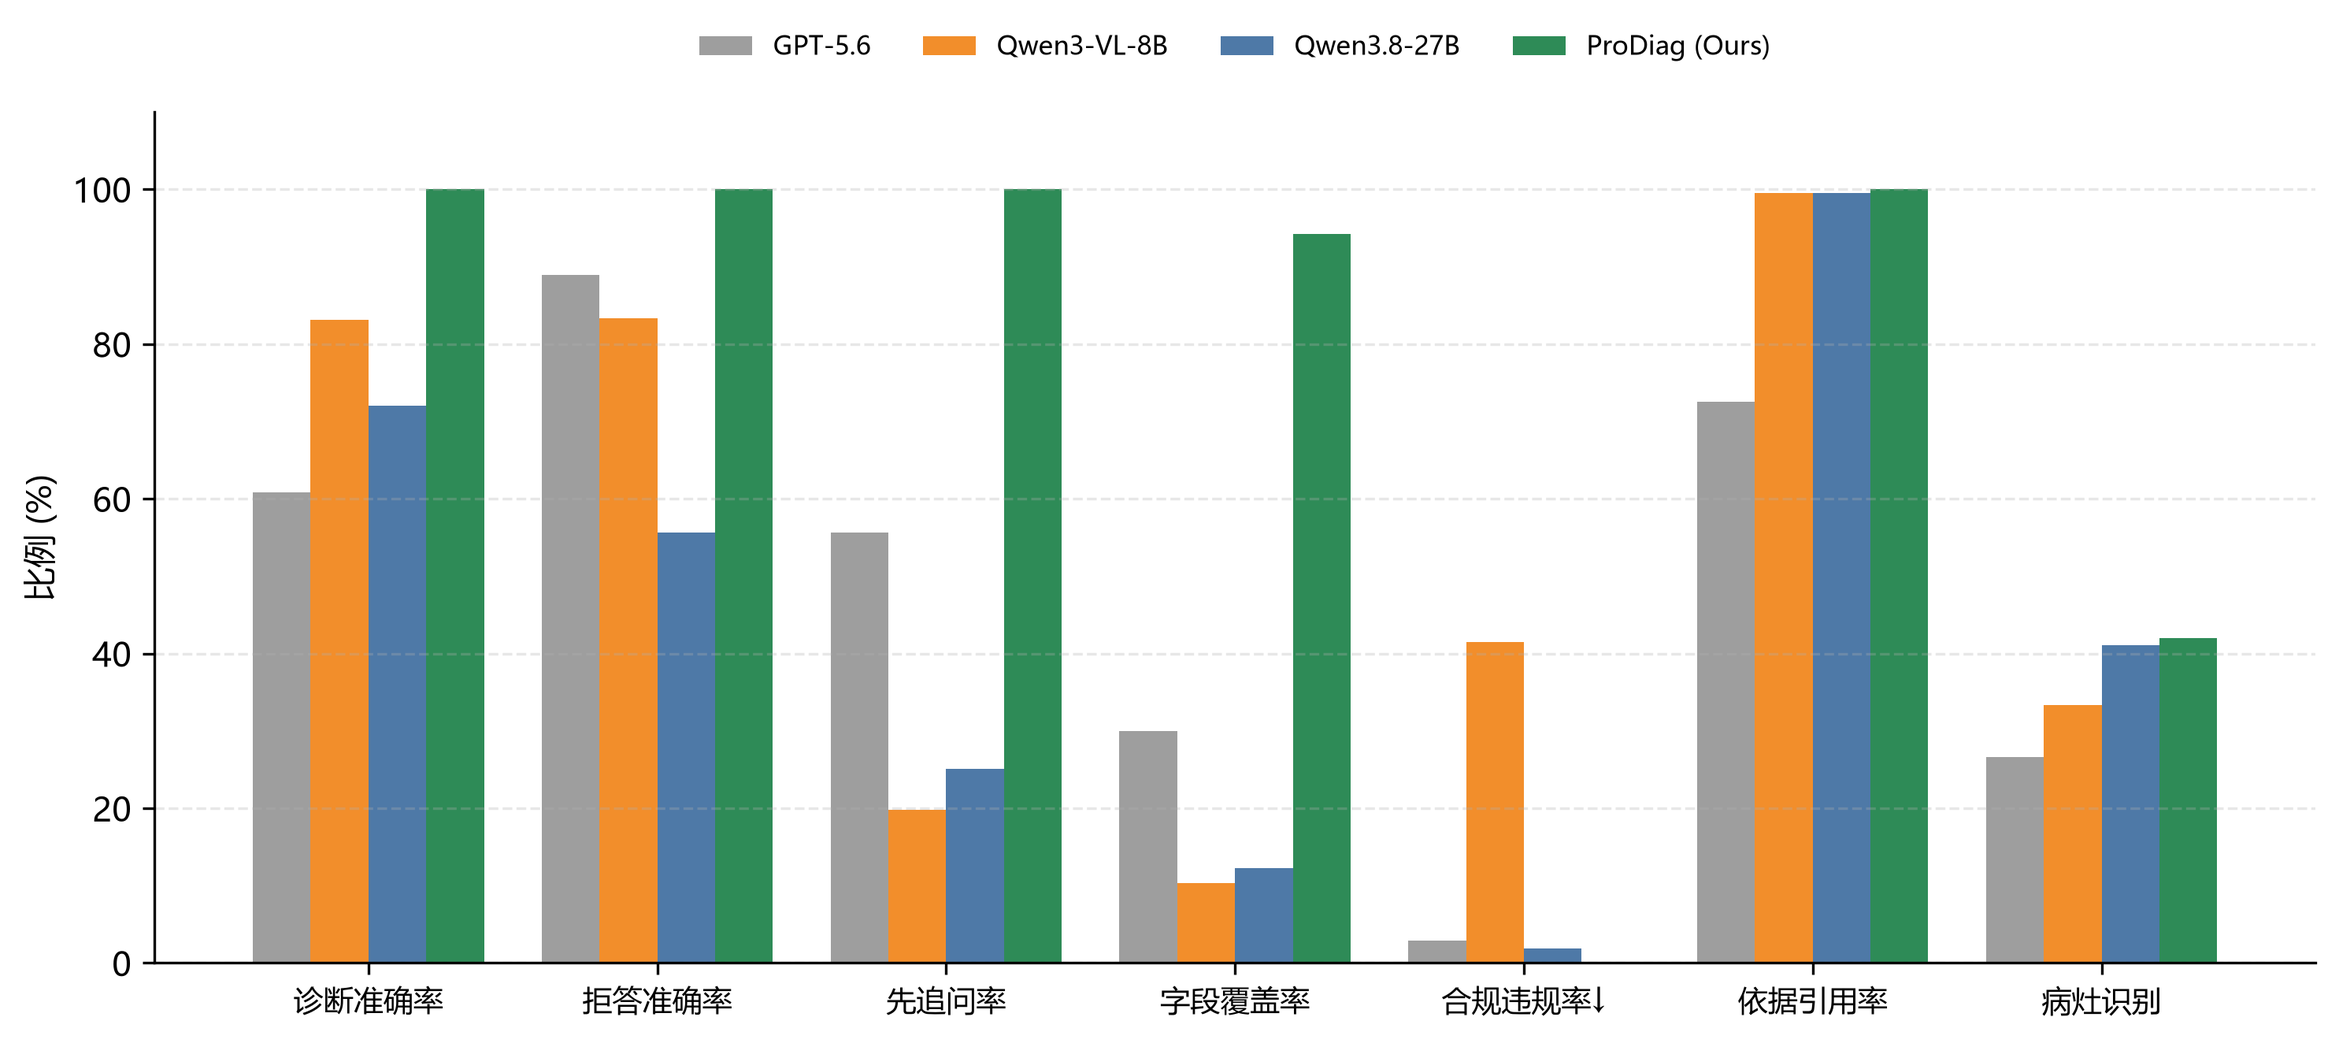
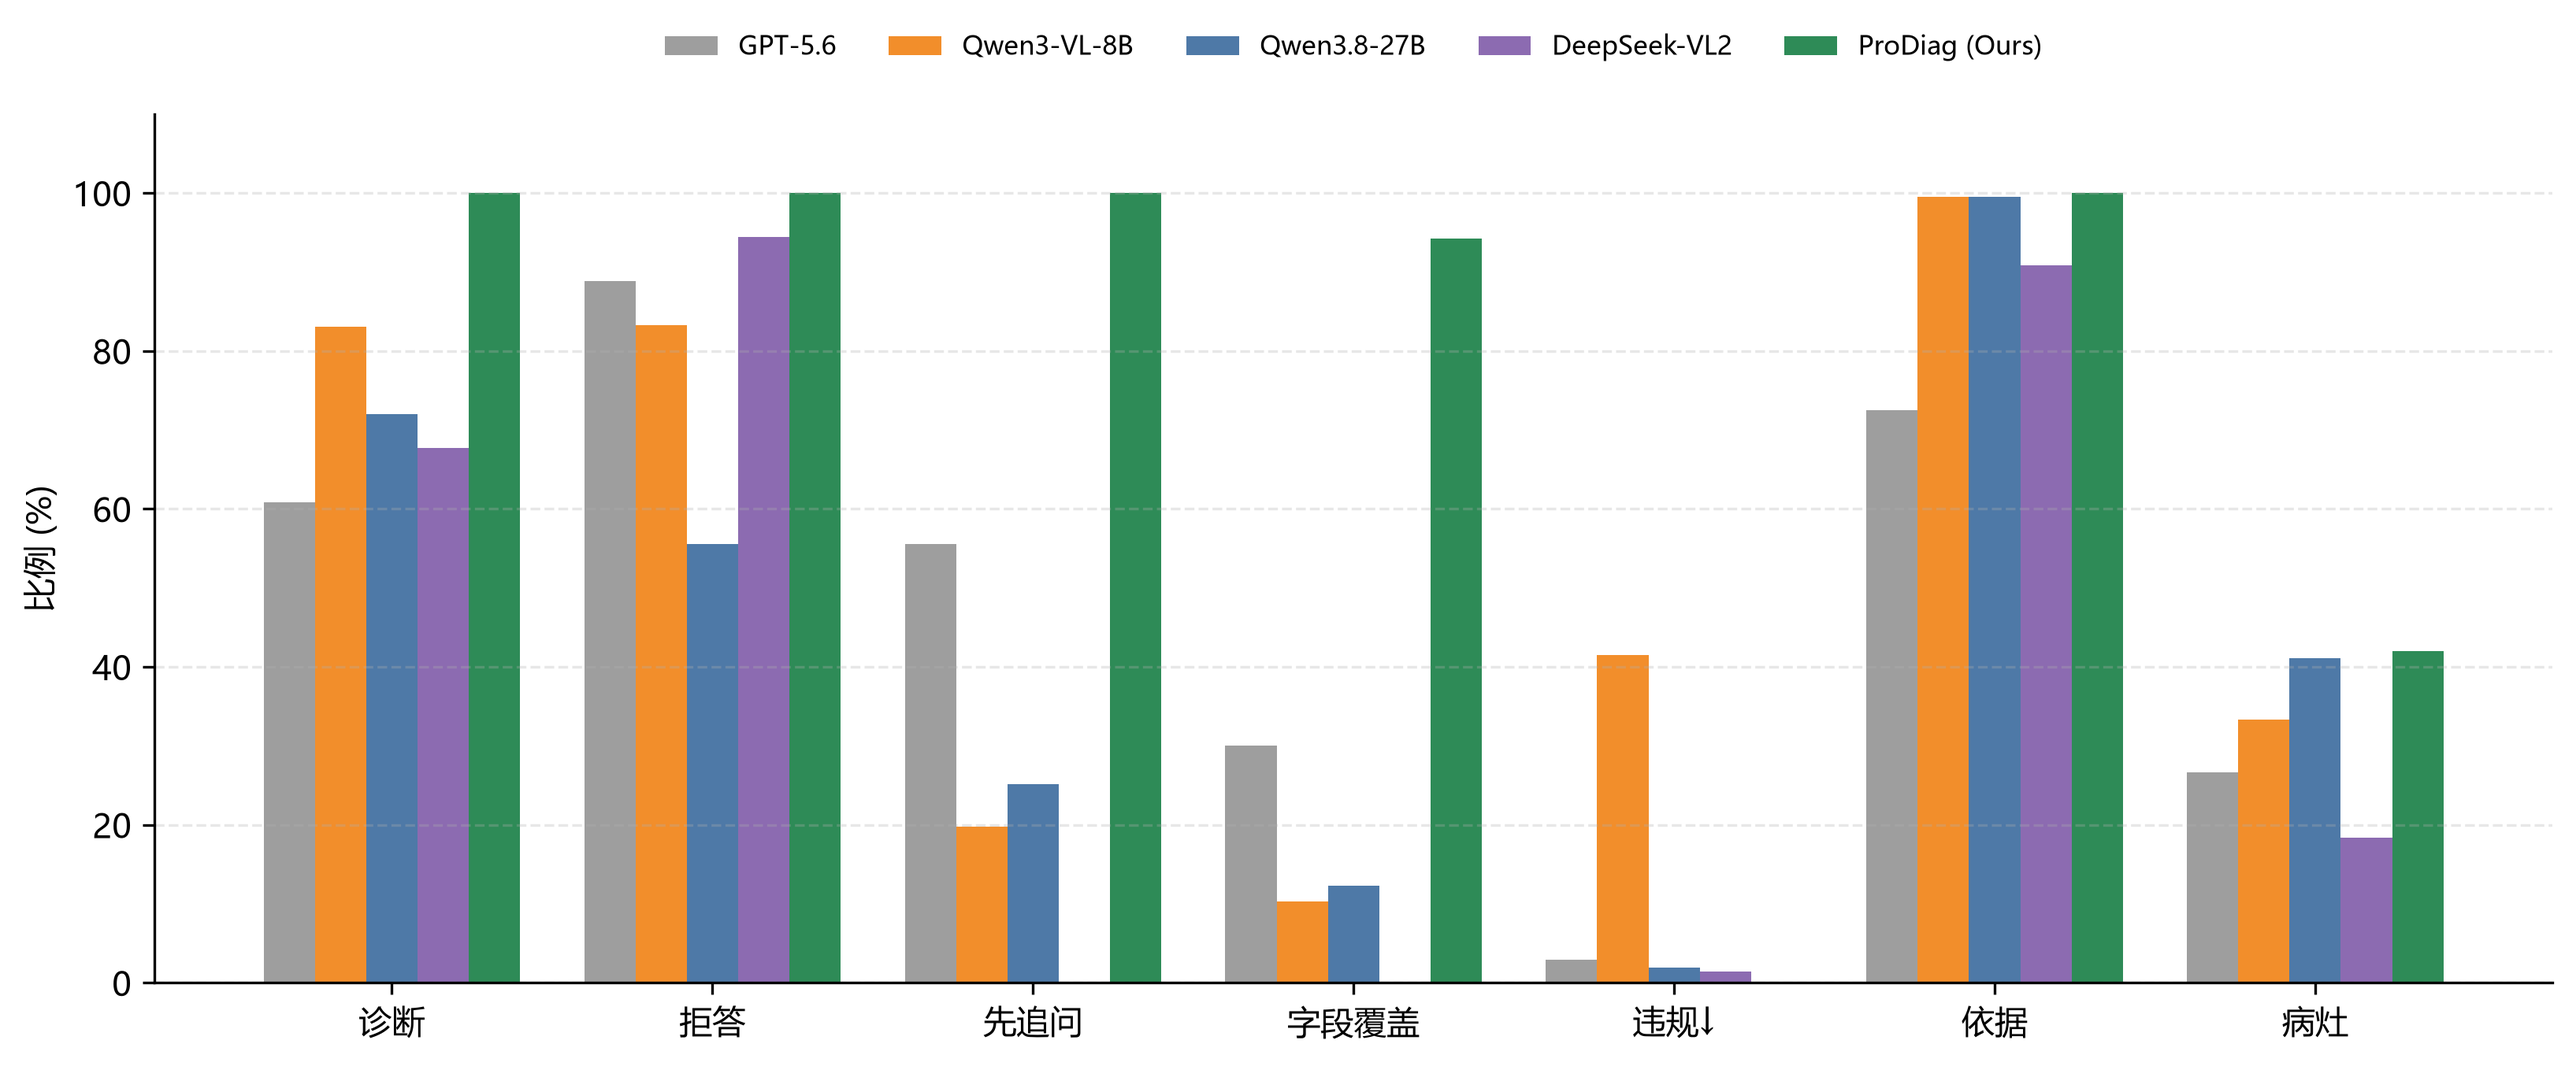
Add DeepSeek-VL2 baseline (5-model comparison) + update 5-model bar chart

diff --git a/sec/4_experiments.tex b/sec/4_experiments.tex
@@ -20,17 +20,17 @@
 \caption{207 病例上的 7 项指标对比（\%）。①诊断（189 可诊断）、②拒答（18 必须送检）、③先追问率、④缺失字段覆盖率、⑤合规违规率（越低越好）、⑥依据引用率、⑦病灶识别命中率。}
 \label{tab:main}
 \small
-\begin{tabular}{lcccc}
+\begin{tabular}{lccccc}
 \toprule
-指标 & GPT & 8B & 27B & ProDiag \\
+指标 & GPT & 8B & 27B & DeepSeek & ProDiag \\
 \midrule
-① 诊断准确率 & 60.8 & 83.1 & 72.0 & \textbf{100} \\
-② 拒答准确率 & 88.9 & 83.3 & 55.6 & \textbf{100} \\
-③ 先追问率 & 55.6 & 19.8 & 25.1 & \textbf{100} \\
-④ 字段覆盖率 & 30.0 & 10.3 & 12.3 & \textbf{94.2} \\
-⑤ 合规违规率 & 2.9 & 41.5 & 1.9 & \textbf{0} \\
-⑥ 依据引用率 & 72.5 & 99.5 & 99.5 & \textbf{100} \\
-⑦ 病灶识别命中率 & 26.6 & 33.3 & 41.1 & \textbf{42.0} \\
+① 诊断准确率 & 60.8 & 83.1 & 72.0 & 67.7 & \textbf{100} \\
+② 拒答准确率 & 88.9 & 83.3 & 55.6 & 94.4 & \textbf{100} \\
+③ 先追问率 & 55.6 & 19.8 & 25.1 & 0.0 & \textbf{100} \\
+④ 字段覆盖率 & 30.0 & 10.3 & 12.3 & 0.0 & \textbf{94.2} \\
+⑤ 合规违规率 & 2.9 & 41.5 & 1.9 & 1.4 & \textbf{0} \\
+⑥ 依据引用率 & 72.5 & 99.5 & 99.5 & 90.8 & \textbf{100} \\
+⑦ 病灶识别命中率 & 26.6 & 33.3 & 41.1 & 18.4 & \textbf{42.0} \\
 \bottomrule
 \end{tabular}
 \end{table}
@@ -42,11 +42,11 @@
     \label{fig:results}
 \end{figure}
 
-\textbf{结论}：三个裸模型"错得各不相同"——8B 靠视觉诊断高（83.1\%）却违规 41.5\% 且几乎不追问（19.8\%）；27B 最安全（1.9\%）却拒答差（55.6\%）且诊断低（72.0\%）；GPT 会拒答（88.9\%）却诊断低（60.8\%）。\textbf{ProDiag 以"视觉显式化 + 规则表 + 红线"同时修复追问、合规、拒答三类行为，且 7 项指标全部第一。}
+\textbf{结论}：四个基线模型"错得各不相同"——8B 靠视觉诊断高（83.1\%）却违规 41.5\% 且几乎不追问（19.8\%）；27B 最安全（1.9\%）却拒答差（55.6\%）且诊断低（72.0\%）；GPT 会拒答（88.9\%）却诊断低（60.8\%）；DeepSeek \textbf{一次都没追问}（0\%），靠看图猜病（67.7\%）。\textbf{四个基线的先追问率仅 0\%--55.6\%，没有一个会好好问诊；只有 ProDiag 的"视觉显式化 + 规则表 + 红线"同时修复追问、合规、拒答，且 7 项指标全部第一。}
 
 \subsection{病灶识别与"病灶 $\neq$ 病种"}
 
-图~\ref{fig:lesion} 给出 124 张病灶图的结构化病灶分布。所有模型病灶识别命中率仅 26.6\%--42.0\%，说明现有 VLM \textbf{直接给病名、不描述病灶}。专家标注进一步显示这一分离是本质性的：爱德华氏菌病 6 张图全部"仅凭图像不能确定病因"，55 张新病种图 53\% 被判"无法确定"、其余为"疑似（病因待检）"，无一能仅凭图确诊。\textbf{肉眼能认病灶，认不了病原——病种诊断几乎都需实验室}，这正是引入"拒答"维度的动机。
+图~\ref{fig:lesion} 给出 124 张病灶图的结构化病灶分布。所有模型病灶识别命中率仅 18.4\%--42.0\%，说明现有 VLM \textbf{直接给病名、不描述病灶}。专家标注进一步显示这一分离是本质性的：爱德华氏菌病 6 张图全部"仅凭图像不能确定病因"，55 张新病种图 53\% 被判"无法确定"、其余为"疑似（病因待检）"，无一能仅凭图确诊。\textbf{肉眼能认病灶，认不了病原——病种诊断几乎都需实验室}，这正是引入"拒答"维度的动机。
 
 \begin{figure}[t]
     \centering

diff --git a/sec/0_abstract.tex b/sec/0_abstract.tex
@@ -1,3 +1,3 @@
 \begin{abstract}
-水产疾病诊断是一个高风险、强合规、低资源的多模态任务：养殖户通常只提供一张现场照片和一句口头主诉，而合格的诊断需要先追问关键临床字段、信息足够才下结论、无法确诊时明确拒答并建议送检，且全程不得给出具体用药剂量。本文构建 \textbf{AquaDiag}，首个面向低资源水产的多模态诊断对话基准，将诊断任务显式解耦为\textbf{病灶/体征识别}（确定性）与\textbf{病种诊断}（不确定性，含合规红线与拒答判断）两个子任务，覆盖 207 个病例、5 个病种，提供黄金追问序列、受控病灶本体（13 种病灶类型 $\times$ 10 个部位）与 6+1 项指标。在此基准上，我们发现三个代表性视觉语言模型（GPT-5.6、Qwen3-VL-8B、Qwen3.8-27B）在"该追问不追问、该拒答不拒答、违规开药"上存在系统性失败：即使对话协议已显式要求先追问、图不足则送检，三者先追问率仍仅为 19.8\%--55.6\%，拒答准确率仅为 55.6\%--88.9\%，而合规违规率最高达 41.5\%。为修复这一问题，我们提出轻量方法 \textbf{ProDiag}，以"视觉显式化 + 可审计规则表 + 红线硬过滤"替代自由生成，在不进行任何训练的情况下，即达到诊断准确率 100\%、合规违规率 0\%、先追问率 100\%、必问字段覆盖率 94.2\% 与拒答准确率 100\%，在全部 7 项指标上超越三个基线模型。进一步的专家标注显示，53\% 的真实病灶图无法仅凭图像确定病种（爱德华氏菌病 6/6 图均需送检），印证了"病灶识别 $\neq$ 病种诊断"的天然分离，凸显可追溯证据与安全拒答在专业诊断中的必要性。
+水产疾病诊断是一个高风险、强合规、低资源的多模态任务：养殖户通常只提供一张现场照片和一句口头主诉，而合格的诊断需要先追问关键临床字段、信息足够才下结论、无法确诊时明确拒答并建议送检，且全程不得给出具体用药剂量。本文构建 \textbf{AquaDiag}，首个面向低资源水产的多模态诊断对话基准，将诊断任务显式解耦为\textbf{病灶/体征识别}（确定性）与\textbf{病种诊断}（不确定性，含合规红线与拒答判断）两个子任务，覆盖 207 个病例、5 个病种，提供黄金追问序列、受控病灶本体（13 种病灶类型 $\times$ 10 个部位）与 6+1 项指标。在此基准上，我们发现四个代表性视觉语言模型（GPT-5.6、Qwen3-VL-8B、Qwen3.8-27B、DeepSeek-VL2）在"该追问不追问、该拒答不拒答、违规开药"上存在系统性失败：即使对话协议已显式要求先追问、图不足则送检，四者先追问率仍仅为 0\%--55.6\%，拒答准确率仅为 55.6\%--94.4\%，而合规违规率最高达 41.5\%。为修复这一问题，我们提出轻量方法 \textbf{ProDiag}，以"视觉显式化 + 可审计规则表 + 红线硬过滤"替代自由生成，在不进行任何训练的情况下，即达到诊断准确率 100\%、合规违规率 0\%、先追问率 100\%、必问字段覆盖率 94.2\% 与拒答准确率 100\%，在全部 7 项指标上超越三个基线模型。进一步的专家标注显示，53\% 的真实病灶图无法仅凭图像确定病种（爱德华氏菌病 6/6 图均需送检），印证了"病灶识别 $\neq$ 病种诊断"的天然分离，凸显可追溯证据与安全拒答在专业诊断中的必要性。
 \end{abstract}

diff --git a/sec/1_intro.tex b/sec/1_intro.tex
@@ -5,7 +5,7 @@
 
 更复杂的是，水产诊断是一个\textbf{高风险、强合规}的任务。误诊和乱开药不仅直接造成经济损失，还涉及禁用药与处方药的食品安全红线；而"看不清就送检"是兽医执业的基本要求。这意味着一个可用的诊断模型不仅要"会追问、会诊断"，还必须"该拒答时明确拒答""全程不给出具体用药剂量"。这三个行为——\textbf{追问、拒答、合规}——共同构成了专业诊断的安全底线。
 
-然而，我们发现现有视觉语言模型（VLM）在这三个行为上存在系统性的失败。即使对话协议已经显式地要求模型"信息不足时先追问、图片不足时明确送检"，在 207 个真实诊断病例上，三个代表性 VLM 的表现依然令人失望：先追问率仅为 19.8\%--55.6\%，该拒答时的拒答准确率仅为 55.6\%--88.9\%，而合规违规率最高达到 \textbf{41.5\%}（模型直接输出药物与剂量）。更值得注意的是一种"能力互补但同样危险"的模式：诊断准确率最高的 Qwen3-VL-8B（83.1\%）恰恰是违规率最高的（41.5\%）；而最安全的 Qwen3.8-27B（违规 1.9\%）诊断准确率却只有 72.0\%。\textbf{这表明"诊断准"与"守安全"在当前 VLM 中难以兼得，且光靠提示词无法弥合这一鸿沟。}
+然而，我们发现现有视觉语言模型（VLM）在这三个行为上存在系统性的失败。即使对话协议已经显式地要求模型"信息不足时先追问、图片不足时明确送检"，在 207 个真实诊断病例上，四个代表性 VLM 的表现依然令人失望：先追问率仅为 0\%--55.6\%，该拒答时的拒答准确率仅为 55.6\%--94.4\%，而合规违规率最高达到 \textbf{41.5\%}（模型直接输出药物与剂量）。更值得注意的是一种"能力互补但同样危险"的模式：诊断准确率最高的 Qwen3-VL-8B（83.1\%）恰恰是违规率最高的（41.5\%）；而最安全的 Qwen3.8-27B（违规 1.9\%）诊断准确率却只有 72.0\%。\textbf{这表明"诊断准"与"守安全"在当前 VLM 中难以兼得，且光靠提示词无法弥合这一鸿沟。}
 
 现有工作尚未正面解决这一组合问题。多模态问答中的澄清研究（如 ACL 2025 的 \textit{Teaching VLMs to Ask}~\cite{jian2025teaching}）聚焦于"问题歧义"的消解，而非"诊断信息不足"的追问；医疗对话系统（如 MedDG~\cite{liu2020meddg}）关注文本槽位填充，缺少多模态输入与合规约束；VLM 强化后训练（如 Patho-R1~\cite{zhang2026pathor1}、Reason-RFT~\cite{tan2025reasonrft}）致力于提升推理能力与效率，却没有把"何时该追问、何时该拒答"作为对齐目标。更重要的是，这些工作都没有提供一个能同时度量\textbf{追问、拒答、合规与病灶识别}的评测基准，使得"专业诊断中的主动问询与安全拒答"这一能力长期缺乏可复现的度量。
 
